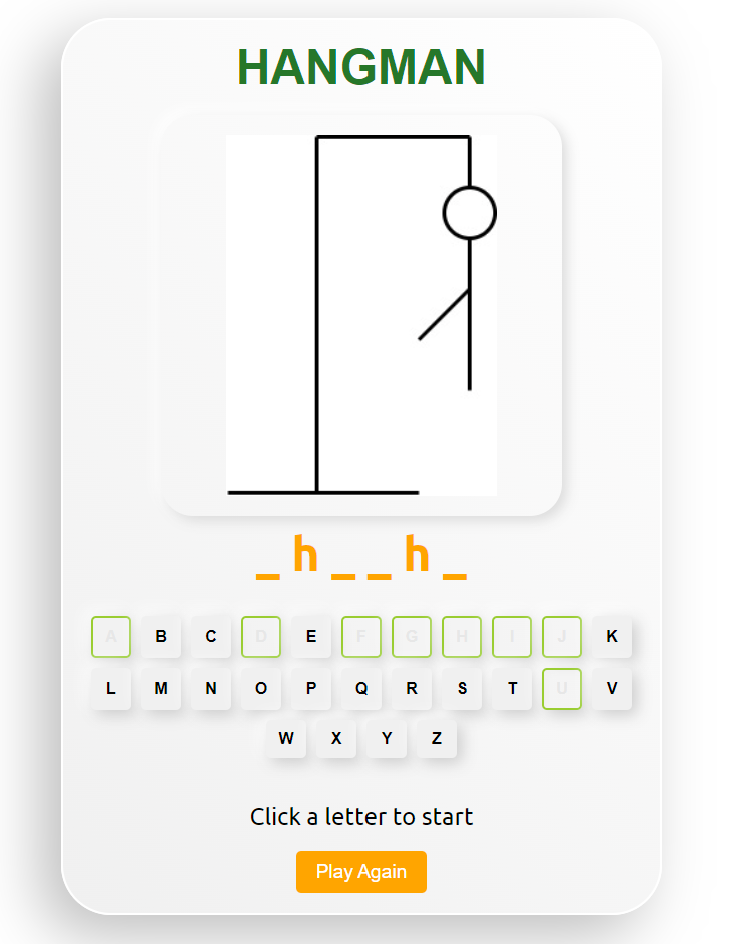
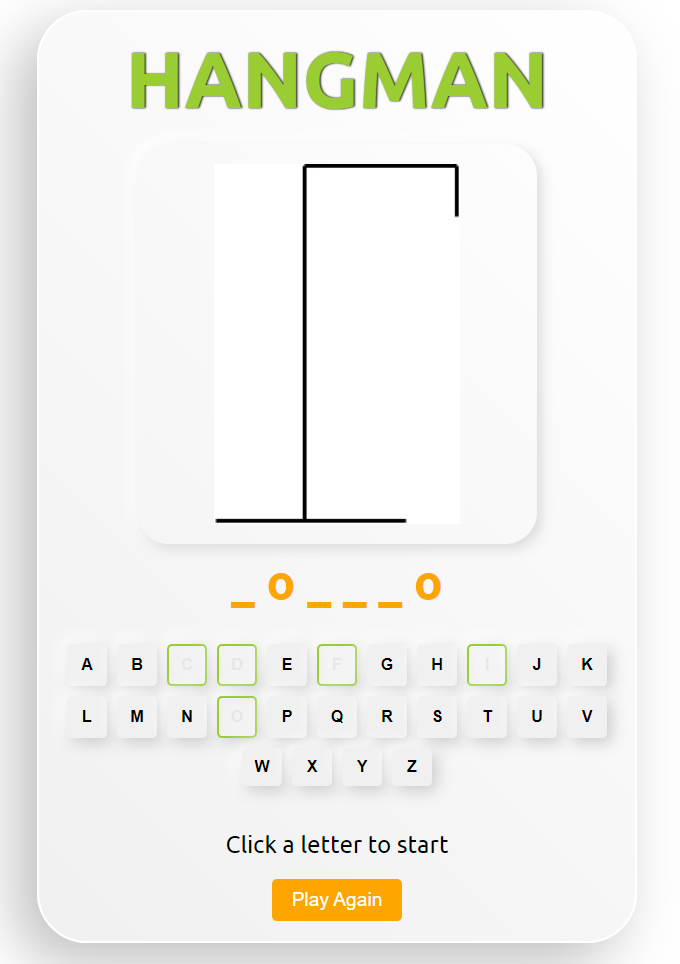
updates screenshots & css h1 fix

diff --git a/style.css b/style.css
@@ -29,10 +29,10 @@ body {
 
 h1{
     text-align: center;
-    font-size: 3rem;
-    color: #26772a;
+    font-size: 5rem;
+    color: yellowgreen;
     margin-bottom: 20px;
-    font-family: Arial, Helvetica, sans-serif;
+    filter: drop-shadow(1px 0px 1px #000000);
 }
 
 #hangman-img{
